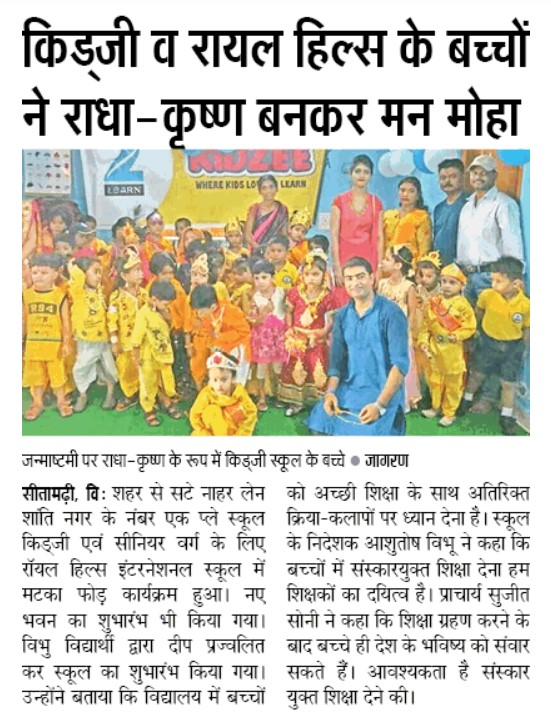
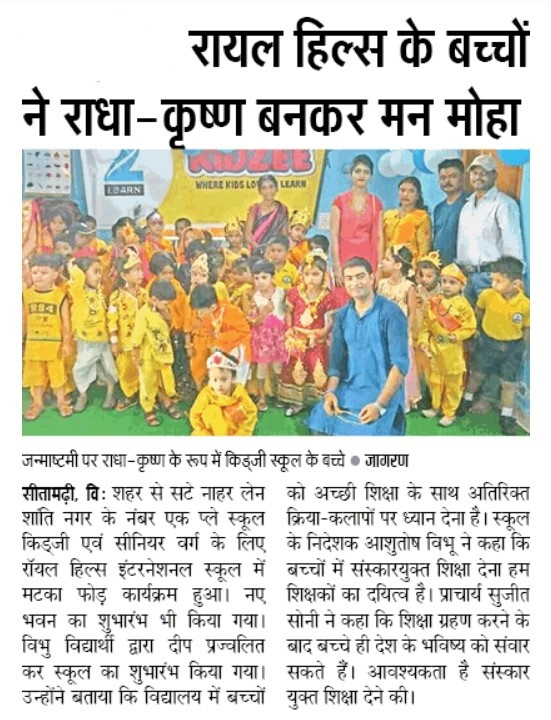
starting updating mobile num and email

Changed region(s): [[0.0309, 0.0, 0.3394, 0.1222]]

diff --git a/src/pages/academics/academic-program/AcademicProgram.css b/src/pages/academics/academic-program/AcademicProgram.css
@@ -15,14 +15,15 @@
 }
 
 .txt-cont{
-  padding: 0px 10px;
+  padding: 20px;
   flex: 2;
   /* font-size: 20px; */
 }
 
 .img-cont{
   flex: 1;
-  padding: 0px 10px;
+  padding: 10px;
+  border: 3px solid #082a59;
 }
 
 .img-kid{
@@ -36,6 +37,7 @@
   .txt-cont{
     flex: 2;
     font-size: 15px;
+    padding: 10px;
   }
   .flex-r{
     flex-direction: column !important;

diff --git a/src/pages/media/news/News.jsx b/src/pages/media/news/News.jsx
@@ -2,7 +2,7 @@ import React from "react";
 import "./News.css";
 import img1 from "../../../media/news/new_rangoli.jpg";
 import img2 from "../../../media/news/new_teachersday.jpg";
-import img3 from "../../../media/news/raksha_bandhan_news.jpg";
+import img3 from "../../../media/news/news_radhakrishna.jpg";
 import { useState } from "react";
 
 const News = () => {
